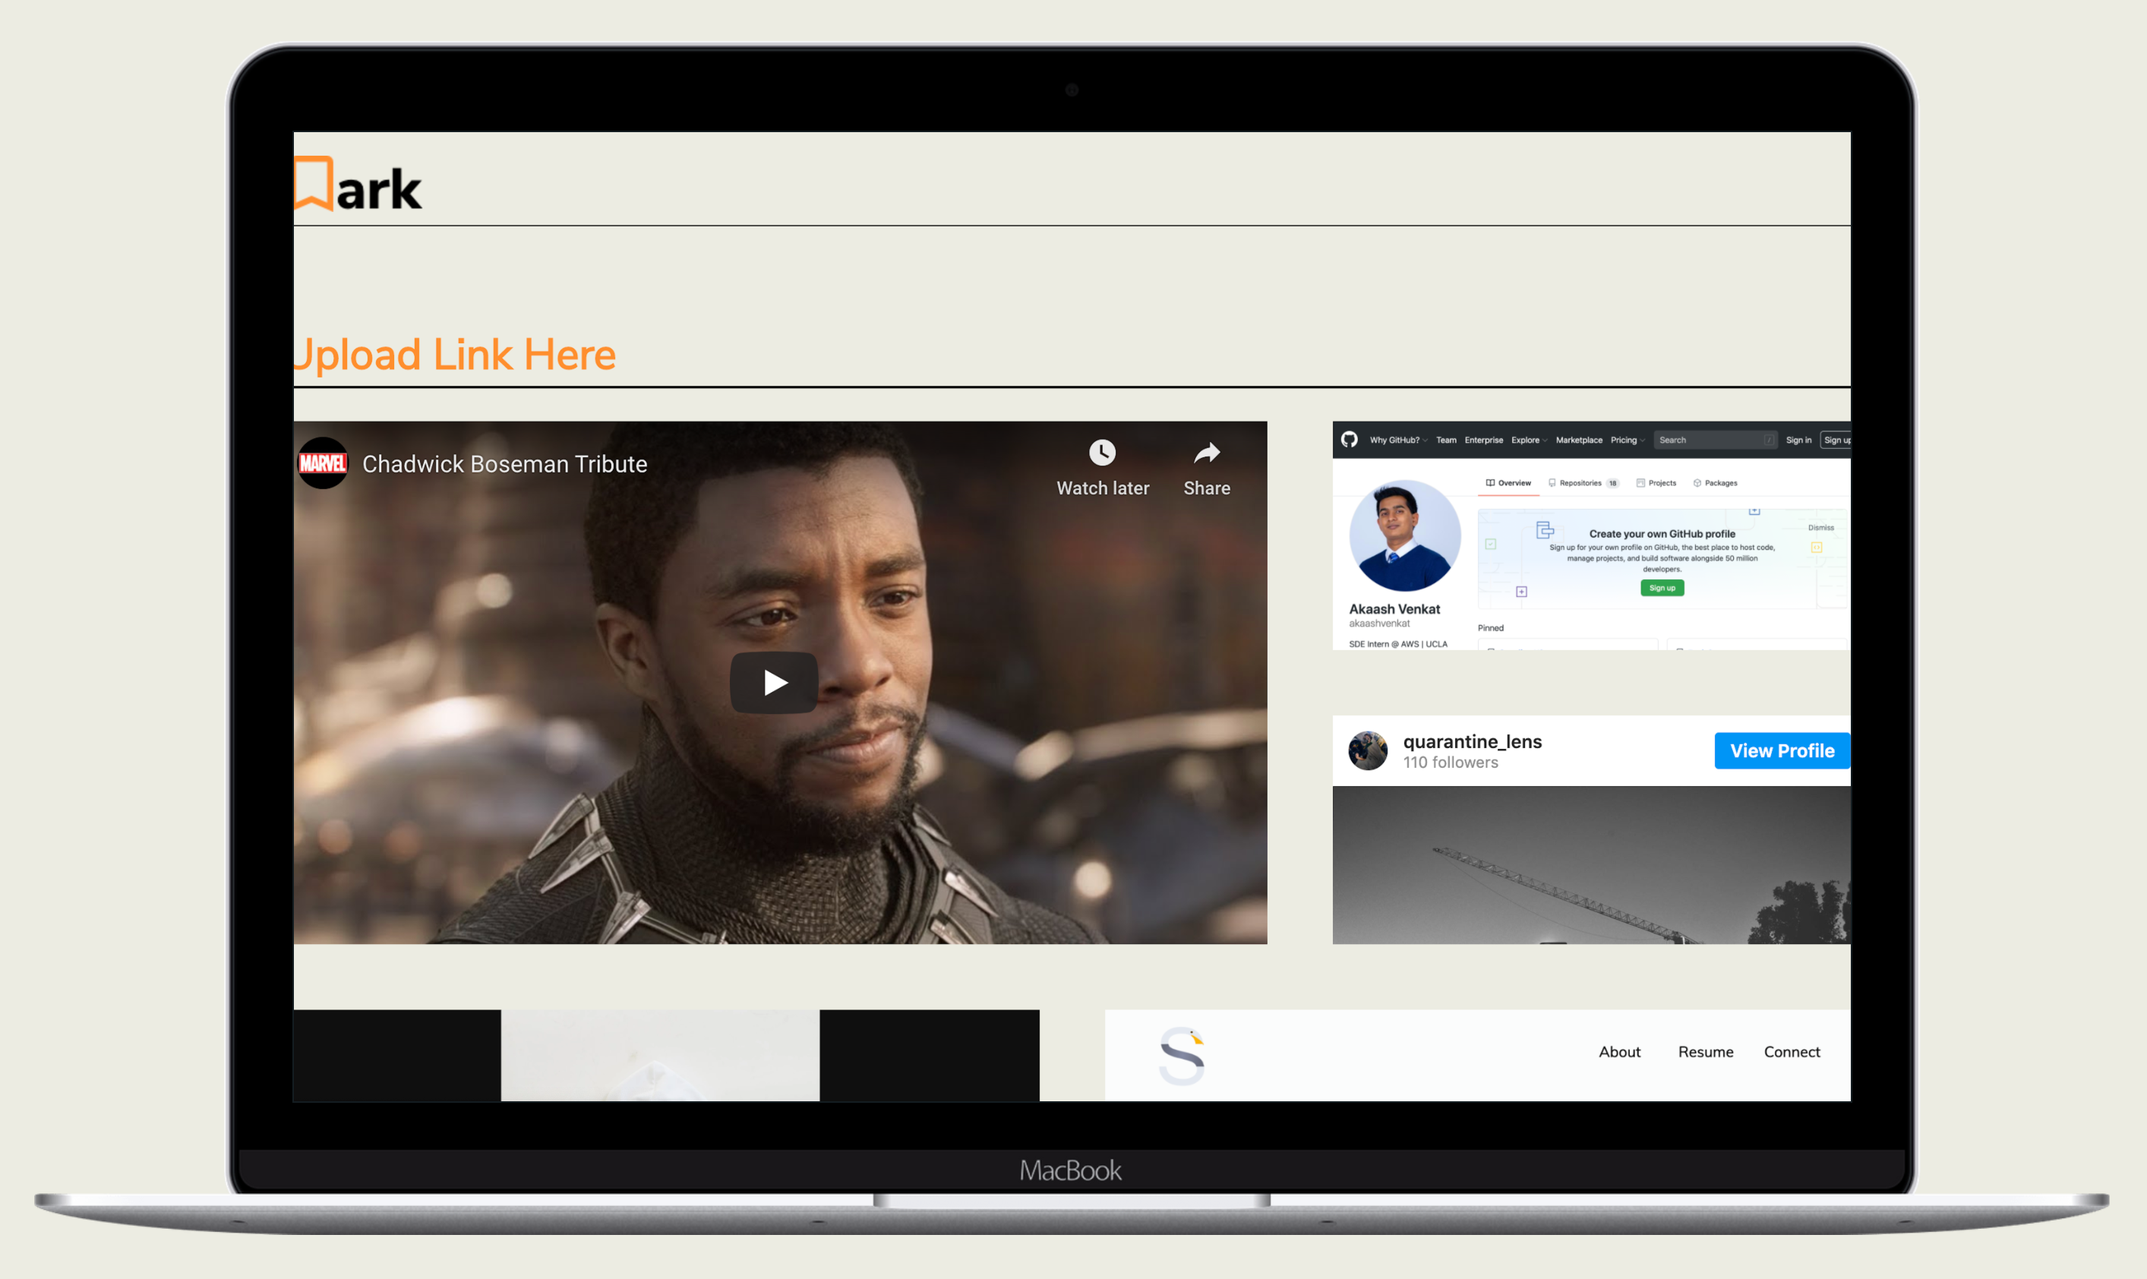
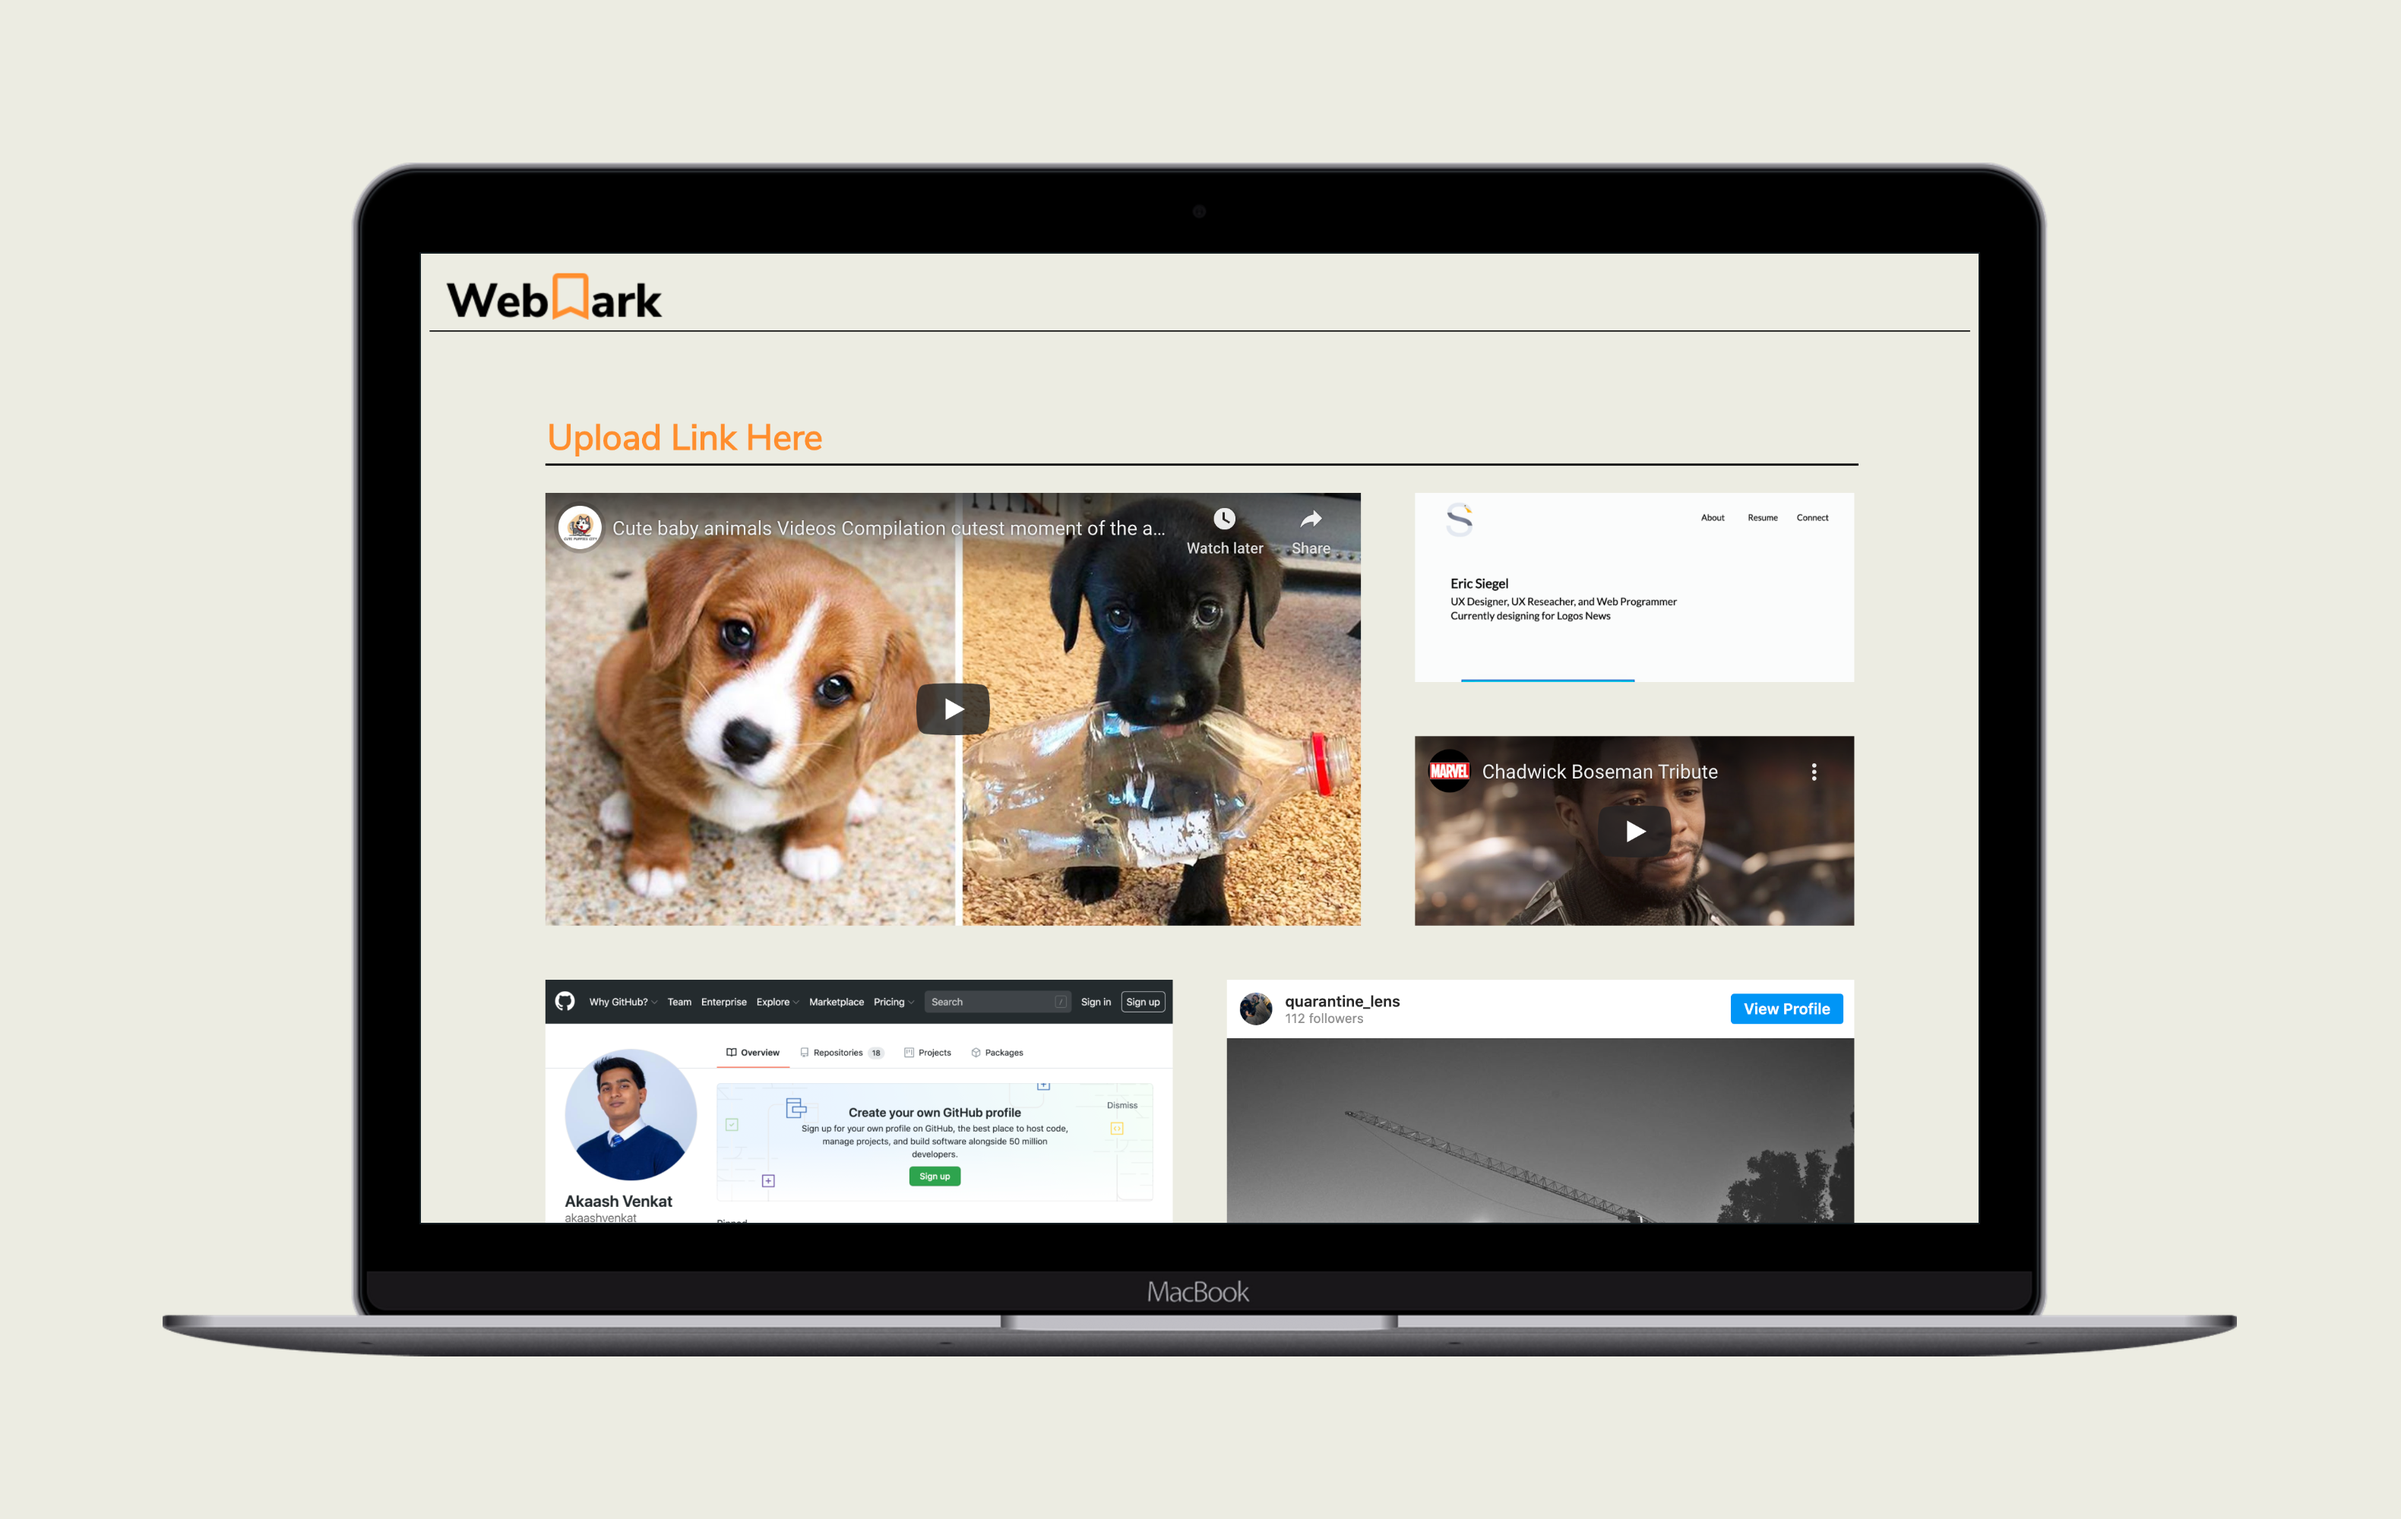
Homepage changes and Akaash, I ADDED THE SIGN IN BUTTON WEBMARK HTML, PLEASE TAKE OVER FROM THERE

diff --git a/src/static/css/index.css b/src/static/css/index.css
@@ -54,7 +54,7 @@ body {
 }
 
 #midsection {
-	margin: 100px 4.5% 0px 4.5%;
+	margin: 50px 4.5% 0px 4.5%;
 	display: flex;
 	flex-direction: row;
 	justify-content: space-between;
@@ -120,6 +120,7 @@ body {
 	width: 50%;
 	border: 1px solid #204720;
 	margin: 0 auto;
+	align-self: center;
 }
 
 @media only screen and (max-width: 900px) {
@@ -133,7 +134,7 @@ body {
 	display: flex;
 	flex-direction: column;
 	justify-content: center;
-	padding: 60px;
+	padding: 10%;
 	margin: 0 auto;
 }
 

diff --git a/src/static/css/webmark.css b/src/static/css/webmark.css
@@ -40,6 +40,24 @@ iframe {
 	}
 }
 
+#signin_button {
+	width: 130.6px;
+	height: 40px;
+	color: black;
+	font-size: 18px;
+	background-color: #FF8E2D;
+	border-radius: 8px;
+	border-color: black;
+	cursor: pointer;
+	margin-right: 15px;
+}
+
+@media only screen and (max-width: 900px) {
+	#signin_button {
+		margin-right: 0px;
+	}
+}
+
 #spinner {
   width: 10%;
   background-color: #ECECE2;

diff --git a/src/templates/webmark.html b/src/templates/webmark.html
@@ -18,6 +18,7 @@
 
     <div id="header">
       <img id="logo" src="{{ url_for('static', filename='media/logo.png') }}" onclick="location.href = 'walkthrough';">
+      <button id="signin_button" type="button" onclick="signin()">Sign In</button>
     </div>
 
     <div id="searchfilter">
